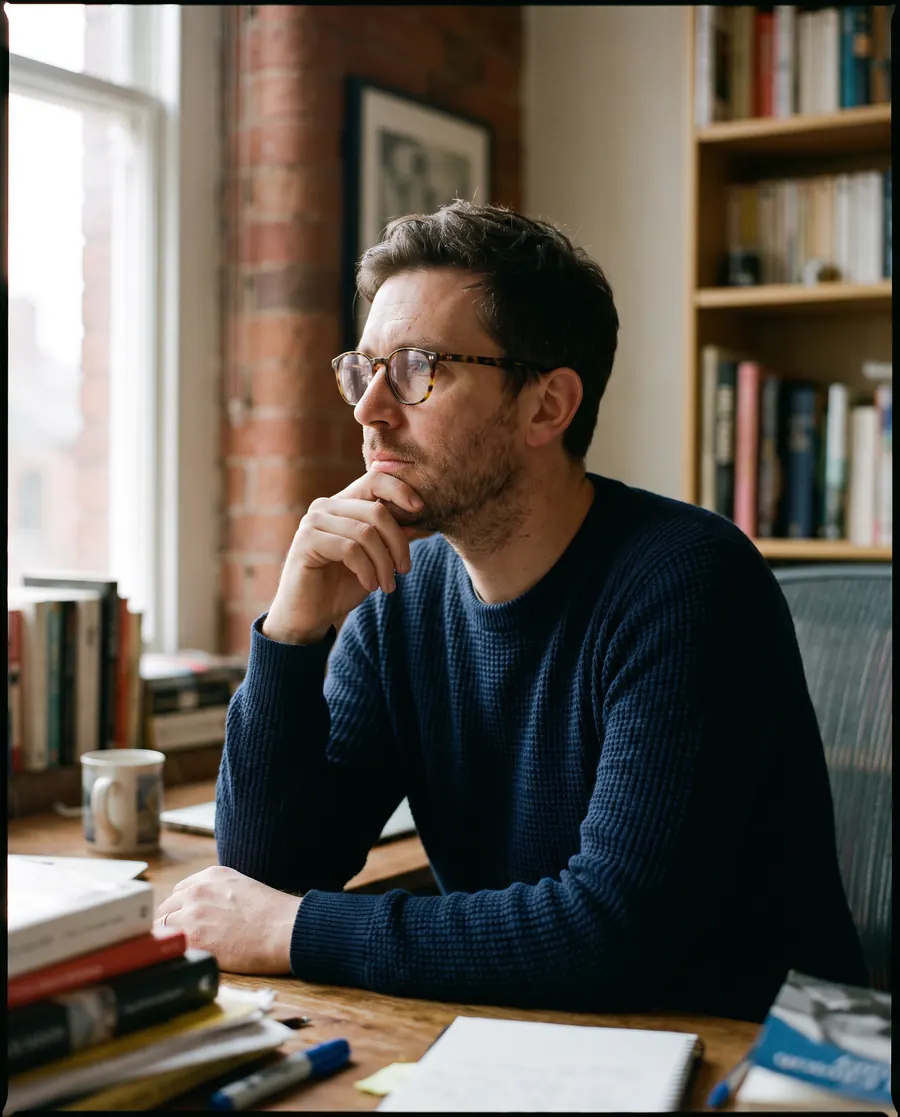
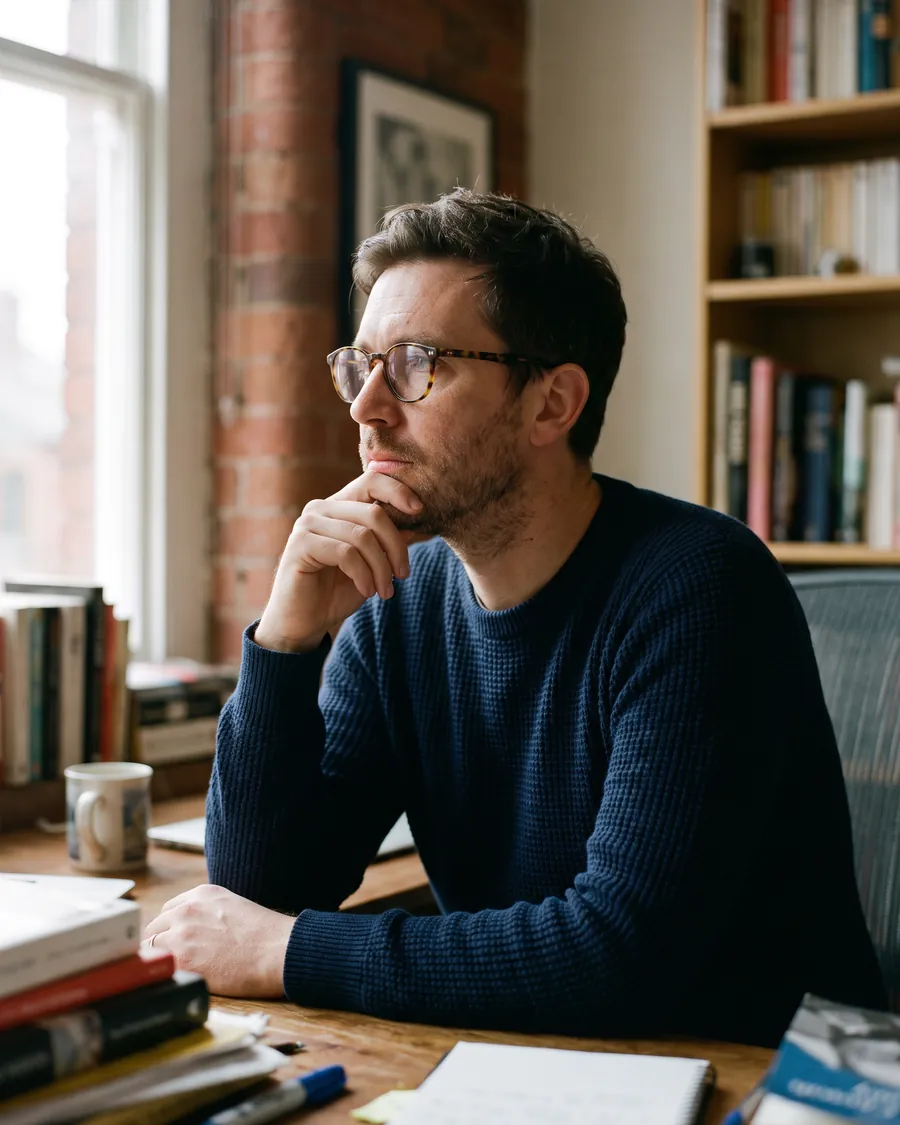
Crop the baked-in black border off the adult photo
Claude-Session: https://claude.ai/code/session_01XNHeRwuhUmpRwevVQeUU9e

diff --git a/index.html b/index.html
@@ -529,7 +529,7 @@
         <ul class="who-grid">
           <li class="who-card"><img src="img/who-child.webp" alt="A schoolboy at the kitchen table resting his chin on his hand" width="900" height="1117" loading="lazy"><div class="who-text"><h3>The bright child</h3><p>who holds everything together at school, and falls apart at home.</p></div></li>
           <li class="who-card"><img src="img/who-teen.webp" alt="A teenage girl sitting on a window seat looking outside" width="900" height="1117" loading="lazy"><div class="who-text"><h3>The teenager</h3><p>whose ADHD, autism, anxiety and emotional regulation difficulties overlap.</p></div></li>
-          <li class="who-card"><img src="img/who-adult.webp" alt="A man in glasses sitting at his desk, deep in thought" width="900" height="1117" loading="lazy"><div class="who-text"><h3>The adult</h3><p>who has spent decades compensating, without ever fully understanding why life feels harder than it should.</p></div></li>
+          <li class="who-card"><img src="img/who-adult.webp" alt="A man in glasses sitting at his desk, deep in thought" width="900" height="1125" loading="lazy"><div class="who-text"><h3>The adult</h3><p>who has spent decades compensating, without ever fully understanding why life feels harder than it should.</p></div></li>
           <li class="who-card"><img src="img/who-woman.webp" alt="A woman in her forties smiling on her sofa" width="900" height="1117" loading="lazy"><div class="who-text"><h3>The woman</h3><p>who reaches her forties and finds the strategies that worked all her life suddenly no longer work.</p></div></li>
           <li class="who-card"><img src="img/who-puzzle.webp" alt="Hands holding a jigsaw piece that doesn't fit the gap" width="900" height="1117" loading="lazy"><div class="who-text"><h3>The person who doesn't fit one box</h3><p>and needs someone to look at the whole picture.</p></div></li>
           <li class="who-card"><img src="img/who-diagnosed.webp" alt="A young woman looking out to sea at golden hour" width="900" height="1117" loading="lazy"><div class="who-text"><h3>The person with a diagnosis</h3><p>who still doesn't feel they truly understand their brain.</p></div></li>
